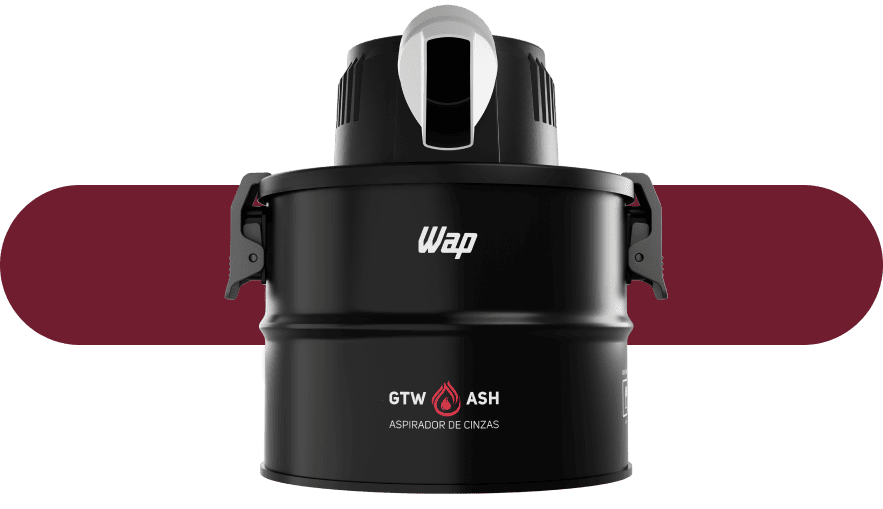
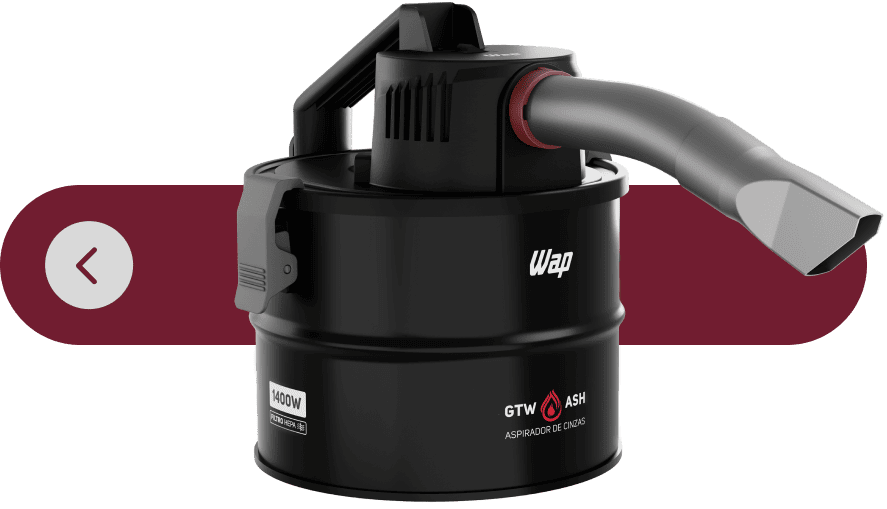
feat: update gtw ash

Changed region(s): [[0.2446, 0.0, 1.0, 1.0], [0.0306, 0.4126, 0.1529, 0.6189], [0.5198, 0.3536, 0.5504, 0.3831]]

diff --git a/pages/casa-e-cuidados/GtwAsh/index.html b/pages/casa-e-cuidados/GtwAsh/index.html
@@ -4,6 +4,8 @@
     <meta charset="UTF-8" />
     <meta name="viewport" content="width=device-width, initial-scale=1.0" />
     <link rel="stylesheet" href="./styles/styles.css" />
+    <link rel="stylesheet" href="./styles/custom.css" />
+    <script src="https://cdn.jsdelivr.net/npm/gsap@3.7.1/dist/gsap.min.js"></script>
     <script src="https://cdn.jsdelivr.net/npm/@splidejs/splide@4.1.4/dist/js/splide.min.js"></script>
     <link rel="stylesheet" href="https://cdn.jsdelivr.net/npm/@splidejs/splide@4.1.3/dist/css/splide.min.css" />
     <title>Aspirador de Cinzas</title>
@@ -11,7 +13,7 @@
   </style>
   </head>
   <body class="m-0">
-    <main class="flex flex-col w-full items-center  py-8 container-content --product_info [&>*]:max-w-6xl --product_info [&>*]:w-full md:[&>*]:mb-20 [&>*]:mb-8">
+    <main class="flex flex-col w-full items-center  py-8 container-content --product_info bg-white [&>*]:max-w-6xl --product_info [&>*]:w-full md:[&>*]:mb-20 [&>*]:mb-8">
       <section class="flex flex-col items-center justify-center px-2 md:px-12">
         <div class="flex flex-col items-center md:hidden">
           <h3 class="text-[13pt] text-black font-book m-0 [font-weight:400]">Aspirador de Cinzas</h3>
@@ -31,7 +33,7 @@
               </p>
             </div>
           </div>
-          <img src="./imgs/desktop/ASH_GTW_i00-0.png" alt="Imagem do produto" class="[display:none] md:block max-w-[40%] max-h-[46rem]" />
+          <img src="./imgs/desktop/ASH_GTW_i00-0.png" alt="Imagem do produto" class="[display:none] md:block max-w-[50%] max-h-[46rem]" />
         </div>
         <div class="md:hidden mt-10 px-10">
           <div class="">
@@ -87,32 +89,57 @@
         </div>
       </section>
 
-      <section class="px-8 mt-8">
-        <div class="flex flex-col items-center gap-12 md:flex-row-reverse" id="content-container">
-          <div class="w-full space-y-4 md:w-1/2">
-            <h3 class="m-0 --title md:text-start text-center">Tecnologia que simplifica a limpeza</h3>
-            <p id="content-text" class="--body  md:text-start text-center">
-            </p>
-          </div>
-          <div class="relative w-full md:w-1/2">
-            <div class="cursor-pointer top-[5.4rem] left-[1rem] md:top-[9.5rem] md:left-[2rem] absolute ">
-              <img class="w-full h-10 md:h-full" src="./imgs/desktop/ASH_GTW-left.png" alt="Mover para esquerda" id="arrow-left">
+      <section>
+        <div id="content-container " class="overflow-hidden relative">
+          <div class="carousel-wrapper flex transition-transform duration-500 ease-in-out  ">
+            <!-- Slide 1 -->
+            <div class="carousel-slide flex flex-col-reverse md:flex-row items-center gap-12" style="flex: 0 0 100%;">
+              <div class="w-full space-y-4 md:w-1/2 h-64 overflow-auto px-5 md:px-0">
+                <h3 class="m-0 --title md:text-start text-center">Tecnologia que simplifica a limpeza</h3>
+                <p class="--body md:text-start text-center">
+                  Manter pequenas churrasqueiras, lareiras e fogões a lenha sempre prontos para uso não precisa mais ser um desafio. <span class="font-bold">O Aspirador de Cinzas WAP GTW ASH</span> proporciona uma limpeza potente dos resíduos deixados pela queima de carvão e lenha.
+                  <br><br>
+                  Projetado para coletar apenas <span class="font-bold">cinzas frias</span>, o equipamento é versátil e está pronto para te acompanhar nos desafios, com seus <span class="font-bold">1400W de potência</span>. Apesar do design compacto, o <span class="font-bold">recipiente de aço</span> tem capacidade para aspirar até 4 litros de cinzas.
+                </p>
+              </div>
+              <div class="w-full md:w-1/2">
+                <img class="w-full arrow-right hidden md:block" src="./imgs/desktop/ASH_GTW_slider-2.png" alt="Imagem do produto" />
+                <img class="w-full arrow-right md:hidden" src="./imgs/mobile/ASH_GTW_slider-1.png" alt="Imagem do produto" />
+                <!--Pointers Mobile-->
+                <div class="flex md:hidden bg-[#EDEDED] py-2 gap-x-5 rounded-full items-center justify-center mt-5 max-w-[6rem] m-auto">
+                  <div id="pointer3" class="pointer-3 px-[0.35rem] py-[0.35rem] bg-[#711D30] rounded-full cursor-pointer"></div>
+                  <div id="pointer4" class="pointer-2 px-[0.35rem] py-[0.35rem] bg-[#ABABAB] rounded-full cursor-pointer"></div>
+                </div>
+              </div>
             </div>
-            <div class="cursor-pointer top-[5.4rem] right-[1rem] md:top-[9.5rem] md:right-[2rem] absolute ">
-              <img class="w-full h-10 md:h-full" src="./imgs/desktop/ASH_GTW-right.png" alt="Mover para direita" id="arrow-right">
-            </div>
-            <div>
-              <img class="w-full hidden md:block" src="./imgs/desktop/ASH_GTW_i02-0.png" alt="Imagem do produto"  />
-              <img id='slider-mobile' class="w-full md:hidden" src="./imgs/desktop/ASH_GTW_i02-0.png" alt="Imagem do produto"  />
+            
+            <!-- Slide 2 -->
+            <div class="carousel-slide flex flex-col-reverse md:flex-row items-center gap-12 carousel-slide flex-none w-full" style="flex: 0 0 100%;">
+              <div class="w-full space-y-4 md:w-1/2 h-64 overflow-auto px-5 md:px-0">
+                <h3 class="m-0 --title md:text-start text-center">Tecnologia que simplifica a limpeza</h3>
+                <p class="--body md:text-start text-center">
+                  Por que escolher o <span class="font-bold">GTW ASH</span> ao invés de um aspirador comum para remover as cinzas de lareiras, churrasqueiras e fogões a lenha?
+                  Diferentemente das partículas de pó presentes no cotidiano, as cinzas são finas e podem danificar de forma irreversível o motor de um aspirador comum durante a tarefa de limpeza.
+                </p>
+              </div>
+              <div class="w-full md:w-1/2 ">
+                <img class="w-full hidden md:block arrow-left " src="./imgs/desktop/ASH_GTW_slider-1.png" alt="Imagem do produto" />
+                <img class="w-full md:hidden arrow-left" src="./imgs/mobile/ASH_GTW_slider-2.png" alt="Imagem do produto" />
+                <!--Pointers Mobile-->
+                <div class="flex md:hidden  bg-[#EDEDED] py-2 gap-x-5 rounded-full items-center justify-center mt-5 max-w-[6rem] m-auto">
+                  <div id="pointer5" class="pointer-3 px-[0.35rem] py-[0.35rem] bg-[#711D30] rounded-full cursor-pointer"></div>
+                  <div id="pointer6" class="pointer-2 px-[0.35rem] py-[0.35rem] bg-[#ABABAB] rounded-full cursor-pointer"></div>
+                </div>
+              </div>
             </div>
           </div>
         </div>
 
-        <div class="flex bg-[#EDEDED] py-2 gap-x-5 rounded-full items-center justify-center max-w-[10rem] m-auto">
+        <!--Pointers Desktop-->
+        <div class="hidden md:flex bg-[#EDEDED] py-2 gap-x-5 rounded-full items-center justify-center max-w-[10rem] m-auto">
           <div id="pointer1" class="pointer-2 px-2 py-2 bg-[#711D30] rounded-full cursor-pointer"></div>
           <div id="pointer2" class="pointer-2 px-2 py-2 bg-[#ABABAB] rounded-full cursor-pointer"></div>
         </div>
-
       </section>
       
       <section>
@@ -130,9 +157,9 @@
                   <div class="bg-white rounded-lg  overflow-hidden m-2">
                       <img class="w-full rounded-2xl object-cover" src="./imgs/splider/ASH_GTW-splider-3.png" alt="Imagem do produto">
                       <div class="p-4">
-                          <h3 class="text-2xl max-w-[70%] h-16 m-auto text-center font-bold">Mangueira de trama de aço</h3>
+                          <h3 class="text-2xl max-w-[70%] h-16 m-auto text-center font-bold">Alça para transporte</h3>
                           <p class="text-center mt-2 md:text-[18px] font-book text-[#434343]">
-                            Resistente, ela oferece durabilidade e mobilidade extra à aspiração de cinzas frias. 
+                            Realize a limpeza de cinzas com liberdade de movimento em qualquer ambiente com praticidade.
                           </p>
                       </div>
                   </div>
@@ -141,9 +168,9 @@
                       <div class="bg-white rounded-lg  overflow-hidden m-2">
                           <img class="w-full rounded-2xl object-cover" src="./imgs/splider/ASH_GTW-splider-1.png" alt="Imagem do produto">
                           <div class="p-4">
-                              <h3 class="text-2xl max-w-[70%] h-16 m-auto text-center font-bold">Porta cabo elétrico</h3>
+                              <h3 class="text-2xl max-w-[70%] h-16 m-auto text-center font-bold">Mangueira de trama de aço</h3>
                               <p class="text-center mt-2 md:text-[18px] font-book text-[#434343]">
-                                Mantém o cabo de alimentação organizado e seguro, evitando emaranhados e danos.
+                                Resistente, ela oferece durabilidade e mobilidade extra à aspiração de cinzas frias. .
                               </p>
                           </div>
                       </div>
@@ -152,9 +179,9 @@
                     <div class="bg-white rounded-lg  overflow-hidden m-2">
                         <img class="w-full rounded-2xl object-cover" src="./imgs/splider/ASH_GTW-splider-2.png" alt="Imagem do produto">
                         <div class="p-4">
-                            <h3 class="text-2xl max-w-[70%] h-16 m-auto text-center font-bold">Alça para transporte</h3>
+                            <h3 class="text-2xl max-w-[70%] h-16 m-auto text-center font-bold">Porta cabo elétrico</h3>
                             <p class="text-center mt-2 md:text-[18px] font-book text-[#434343]">
-                              Realize a limpeza de cinzas com liberdade de movimento em qualquer ambiente com praticidade.
+                              Mantém o cabo de alimentação organizado e seguro, evitando emaranhados e danos.
                             </p>
                         </div>
                     </div>
@@ -214,7 +241,7 @@
         </div>
       </section>
 
-      <section class="sm:mb-[0_!important] p-8 space-y-8 md:p-16 md:space-y-16 bg-[#E5E5E5] md:bg-transparent">
+      <section class="sm:mb-[0_!important] p-8 space-y-8 md:p-16 md:space-y-16  md:bg-transparent">
         <div class="flex items-center gap-6">
           <p class="m-0 --title whitespace-nowrap">IDEAL PARA</p>
           <div class="h-0.5 w-full bg-zinc-400"></div>
@@ -260,7 +287,7 @@
       <section class="md:mt-28">
         <div class="flex flex-col-reverse items-center gap-2 md:gap-16 md:flex-row">
           <div class="w-full">
-            <h3 class="px-8 m-0 mt-4 md:text-start text-center leading-tight --title">
+            <h3 class="px-8 m-0 mt-4 md:text-start text-center leading-tight md:max-w-full max-w-[70%] m-auto --title">
               Com o GTW ASH, você está no comando da limpeza
             </h3>
             <p class="px-8 mt-4 --body  md:text-start text-center">

diff --git a/pages/casa-e-cuidados/GtwAsh/javascript/slider.js b/pages/casa-e-cuidados/GtwAsh/javascript/slider.js
@@ -1,74 +1,50 @@
-const pointerTexts = {
-  pointer1: {
-    title: "Tecnologia que simplifica a limpeza",
-    description: `
-      Manter pequenas churrasqueiras, lareiras e fogões a lenha sempre prontos para uso não precisa mais ser um desafio. <span class="font-bold">O Aspirador de Cinzas WAP GTW ASH</span> proporciona uma limpeza potente dos resíduos deixados pela queima de carvão e lenha.
-      <br><br>
-      Projetado para coletar apenas <span class="font-bold">cinzas frias</span>, o equipamento é versátil e está pronto para te acompanhar nos desafios, com seus <span class="font-bold">1400W de potência</span>. Apesar do design compacto, o <span class="font-bold">recipiente de aço</span> tem capacidade para aspirar até 4 litros de cinzas.  `,
-    mobileImagePath: './imgs/mobile/ASH_GTW_slider-1.png'
-  },
-  pointer2: {
-    title: "Tecnologia que simplifica a limpeza",
-    description: `
-      Por que escolher o <span class="font-bold">GTW ASH</span> ao invés de um aspirador comum para remover as cinzas de lareiras, churrasqueiras e fogões a lenha?
-      Diferentemente das partículas de pó presentes no cotidiano, as cinzas são finas e podem danificar de forma irreversível o motor de um aspirador comum durante a tarefa de limpeza. `,
-    mobileImagePath: './imgs/mobile/ASH_GTW_slider-2.png'
-  }
-};
+let currentSlide = 0;
+const totalSlides = 2;
+const wrapper = document.querySelector('.carousel-wrapper');
 
-document.getElementById('pointer1').addEventListener('click', function() {
-  updateContent('pointer1');
-});
+function updateCarousel() {
+  wrapper.style.transform = `translateX(-${currentSlide * 100}%)`;
+  updateIndicators();
+}
 
-document.getElementById('pointer2').addEventListener('click', function() {
-  updateContent('pointer2');
-});
 
-document.getElementById('arrow-left').addEventListener('click', function() {
-  updateContent('pointer1');
-});
-
-document.getElementById('arrow-right').addEventListener('click', function() {
-  updateContent('pointer2');
-});
-
-function updateContent(pointerId) {
-  document.getElementById('content-text').innerHTML = pointerTexts[pointerId]['description'];
-  document.getElementById('slider-mobile').src = pointerTexts[pointerId]['mobileImagePath'];
-  
-  const arrowLeft = document.getElementById('arrow-left');
-  const arrowRight = document.getElementById('arrow-right');
-  const container = document.getElementById('content-container');
-
-  if ((pointerId === 'pointer1' && container.classList.contains('md:flex-row-reverse')) ||
-      (pointerId === 'pointer2' && !container.classList.contains('md:flex-row-reverse'))) {
-    
-    if (pointerId === 'pointer1') {
-      container.classList.remove('md:flex-row-reverse');
-      container.classList.add('md:flex-row');
-      arrowLeft.classList.add('hidden');     
-      arrowRight.classList.remove('hidden'); 
-    } else {
-      container.classList.remove('md:flex-row');
-      container.classList.add('md:flex-row-reverse');
-      arrowLeft.classList.remove('hidden');  
-      arrowRight.classList.add('hidden');  
-    }
-  }
-
-  const pointers = ['pointer1', 'pointer2'];
-  pointers.forEach(id => {
+function updateIndicators() {
+  ['pointer1', 'pointer2', 'pointer3', 'pointer4', 'pointer5', 'pointer6'].forEach((id, index) => {
     const element = document.getElementById(id);
-    if (id === pointerId) {
-      element.classList.add('bg-[#711D30]');
-      element.classList.remove('bg-[#ABABAB]');
-    } else {
-      element.classList.remove('bg-[#711D30]');
-      element.classList.add('bg-[#ABABAB]');
+    if (element) {
+      element.classList.toggle('bg-[#711D30]', index % 2 === currentSlide);
+      element.classList.toggle('bg-[#ABABAB]', index % 2 !== currentSlide);
     }
   });
 }
 
-window.onload = function() {
-  updateContent('pointer1');
-};
+function nextSlide() {
+  currentSlide = (currentSlide + 1) % totalSlides;
+  updateCarousel();
+}
+
+function prevSlide() {
+  currentSlide = (currentSlide - 1 + totalSlides) % totalSlides;
+  updateCarousel();
+}
+
+document.querySelectorAll('.arrow-left, .arrow-right').forEach(arrow => {
+  arrow.addEventListener('click', arrow.classList.contains('arrow-left') ? prevSlide : nextSlide);
+});
+
+
+['pointer1', 'pointer2', 'pointer3', 'pointer4', 'pointer5', 'pointer6'].forEach((id, index) => {
+  const element = document.getElementById(id);
+  if (element) {
+    element.addEventListener('click', () => {
+      currentSlide = index % 2;
+      updateCarousel();
+    });
+  }
+});
+
+// Inicializar o carrossel
+updateCarousel();
+
+// Adicionar listener para redimensionamento da janela
+window.addEventListener('resize', updateCarousel);

diff --git a/pages/casa-e-cuidados/GtwAsh/styles/styles.css b/pages/casa-e-cuidados/GtwAsh/styles/styles.css
@@ -1107,10 +1107,6 @@
   top: 5%;
 }
 
-.top-\[5\.4rem\] {
-  top: 5.4rem;
-}
-
 .top-\[54\.5\%\] {
   top: 54.5%;
 }
@@ -1586,6 +1582,10 @@
   margin-top: 7rem;
 }
 
+.-mb-20 {
+  margin-bottom: -5rem;
+}
+
 .line-clamp-2 {
   overflow: hidden;
   display: -webkit-box;
@@ -1820,6 +1820,14 @@
 .h-max {
   height: -moz-max-content;
   height: max-content;
+}
+
+.h-60 {
+  height: 15rem;
+}
+
+.h-64 {
+  height: 16rem;
 }
 
 .max-h-44 {
@@ -2281,6 +2289,10 @@
 
 .max-w-\[60\%\] {
   max-width: 60%;
+}
+
+.max-w-\[6rem\] {
+  max-width: 6rem;
 }
 
 .max-w-\[70\%\] {
@@ -2791,6 +2803,10 @@
   border-width: 1px;
 }
 
+.border-solid {
+  border-style: solid;
+}
+
 .border-none {
   border-style: none;
 }
@@ -3086,6 +3102,11 @@
   padding-right: 2.25rem;
 }
 
+.px-\[0\.35rem\] {
+  padding-left: 0.35rem;
+  padding-right: 0.35rem;
+}
+
 .py-1 {
   padding-top: 0.25rem;
   padding-bottom: 0.25rem;
@@ -3144,6 +3165,11 @@
 .py-9 {
   padding-top: 2.25rem;
   padding-bottom: 2.25rem;
+}
+
+.py-\[0\.35rem\] {
+  padding-top: 0.35rem;
+  padding-bottom: 0.35rem;
 }
 
 .pb-10 {
@@ -4126,6 +4152,10 @@
     top: 9.5rem;
   }
 
+  .md\:top-\[10rem\] {
+    top: 10rem;
+  }
+
   .md\:order-1 {
     order: 1;
   }
@@ -4704,6 +4734,10 @@
     max-width: 90%;
   }
 
+  .md\:max-w-full {
+    max-width: 100%;
+  }
+
   .md\:max-w-md {
     max-width: 28rem;
   }
@@ -5048,6 +5082,11 @@
   .md\:py-8 {
     padding-top: 2rem;
     padding-bottom: 2rem;
+  }
+
+  .md\:py-2 {
+    padding-top: 0.5rem;
+    padding-bottom: 0.5rem;
   }
 
   .md\:pb-0 {
